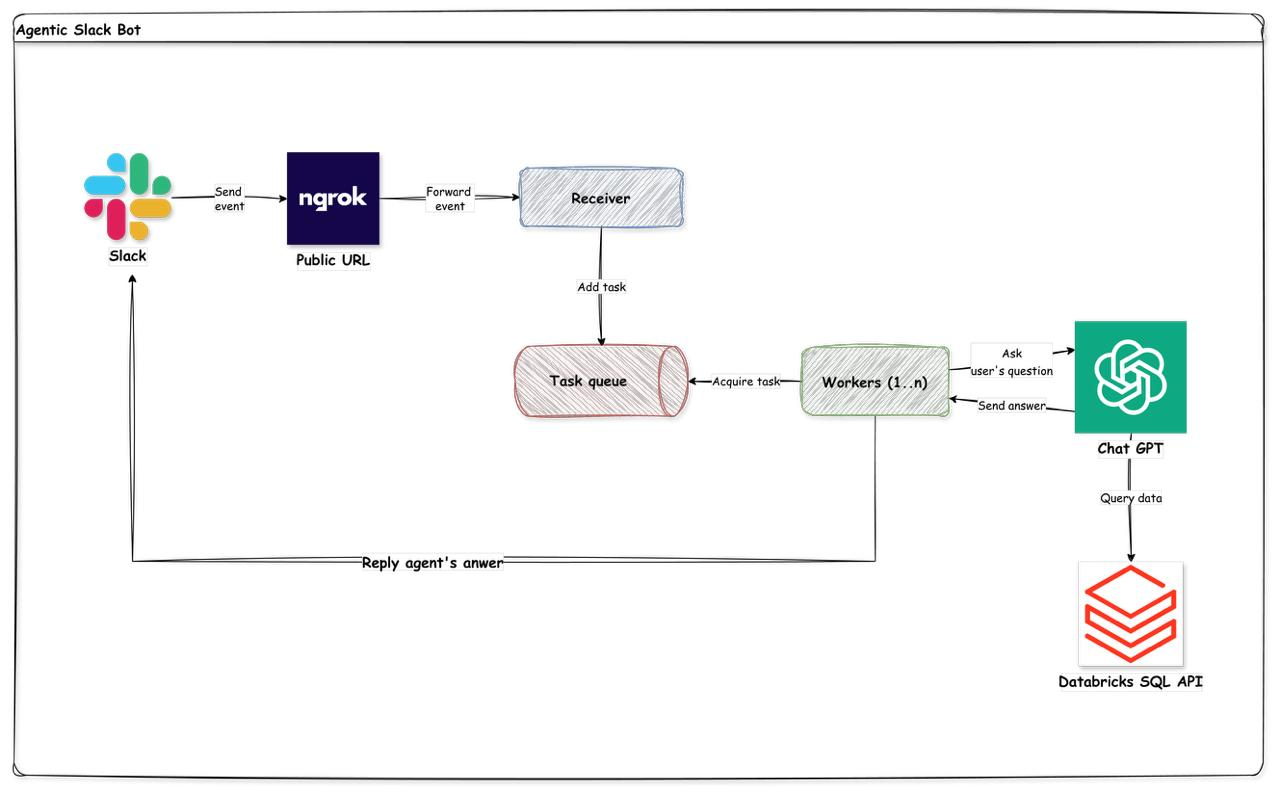
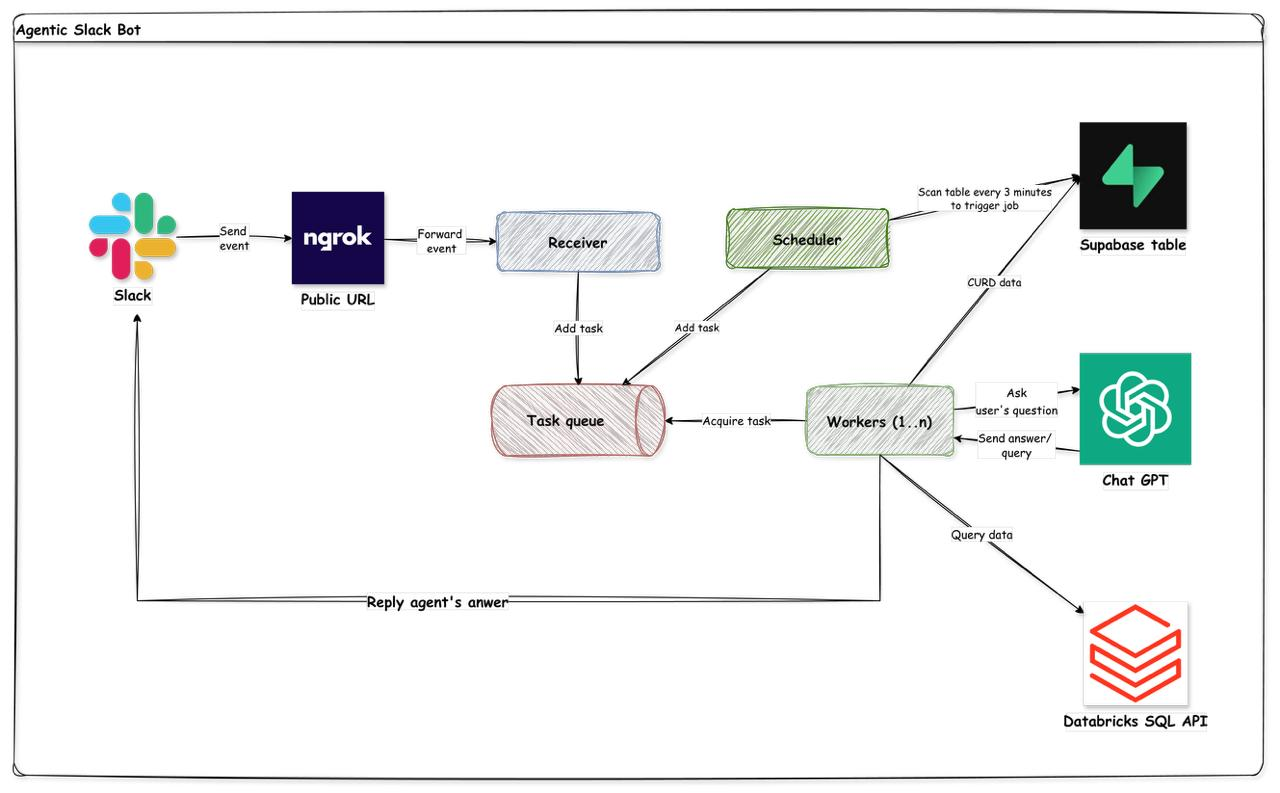
docs: update readme

diff --git a/README.md b/README.md
@@ -1,4 +1,4 @@
-# Databricks Assistant — Slack Bot
+# Agentic Slack Bot
 
 An agentic Slack bot that answers questions about your Databricks data infrastructure — catalogs, schemas, tables, columns, jobs, lineage, query history, usage costs, and data access control.
 
@@ -8,14 +8,37 @@ Powered by OpenAI with function calling. A lightweight router model selects only
 
 ![workflow](./docs/workflow.jpg)
 
+## Services
+
+| Service | Responsibility |
+|---|---|
+| **receiver** | FastAPI app that accepts incoming Slack webhook events. Verifies HMAC-SHA256 signatures, deduplicates events via Redis, and enqueues `app_mention` payloads onto the `slack_events` RQ queue. |
+| **worker** | RQ consumer that processes queued Slack events. Runs the OpenAI agent loop — routes skills, executes Databricks SQL queries, fetches job run error details, manages scheduled questions, and posts replies back to Slack threads. Scales horizontally via `WORKER_COUNT`. |
+| **scheduler** | Background loop that polls Supabase every `SCHEDULER_INTERVAL` seconds. Evaluates each saved cron schedule against the current time and enqueues `process_scheduled_question` jobs for any that are due. |
+| **redis** | Message broker and deduplication store. Distributes jobs between workers (competing-consumer), tracks seen Slack event IDs, and records per-schedule last-fired timestamps. |
+| **ngrok** | Tunnels `receiver:8123` to a public HTTPS URL so Slack can reach the bot during local development. |
+
+## Modules
+
+| Module | Responsibility |
+|---|---|
+| `src/receiver/` | Slack webhook handler — signature verification, URL challenge, event deduplication, and RQ enqueue. |
+| `src/worker/` | Agent core — OpenAI function-calling loop, skill loading and routing, tool dispatch (SQL, job details, schedule CRUD), and thread history management. |
+| `src/scheduler/` | Cron scheduler — reads schedules from Supabase, evaluates firing windows, and enqueues periodic questions. |
+| `src/connectors/` | Thin clients for external systems: `databricks.py` (Statement API, Jobs REST API) and `postgres.py` (Supabase schedule CRUD). |
+| `src/worker/skills/` | Markdown skill files loaded into the agent system prompt. The router selects which skills to include based on the user's question. |
+| `src/databricks/metric_views/` | SQL view definitions for the semantic layer (`vw_dbu_cost`, `vw_job_run_stats`, `vw_query_perf`) deployed to `vireox_infra.semantic` in Databricks. |
+
 ## What it can answer
 
 - How many catalogs / schemas / tables exist, and their column definitions
-- Databricks job configs, schedules, task dependencies, and run history
+- Databricks job configs, schedules, task dependencies, and run history (including per-task error details)
 - Data lineage — upstream and downstream table dependencies
 - Query execution history — who ran what, when, duration, status
 - Platform DBU consumption and estimated cost by workspace, SKU, or user
 - Data access control — which tables a user can see, which users can access a table
+- Aggregated metrics via semantic views — cost trends, job success/failure rates, query performance stats
+- Scheduled reports — list, create, update, and remove cron-based automated questions (admin-only)
 
 Questions about business data values (revenue, customer counts, etc.) are out of scope and politely declined.
 
@@ -30,7 +53,7 @@ cp .env.example .env
 # Fill in all values
 ```
 
-Set `WORKER_COUNT` to the number of concurrent workers you want (default: `4`).
+Set `WORKER_COUNT` to the number of concurrent workers you want (default: `2`).
 
 ### 2. Start services
 
@@ -59,6 +82,7 @@ Try asking:
 @yourbot show me failed job runs in the last 7 days
 @yourbot which jobs cost the most last month?
 @yourbot what tables can alice@example.com access?
+@yourbot what is the p95 job duration for the ingestion pipeline?
 ```
 
 Follow-up questions work — the bot remembers the thread conversation for 24 hours.
@@ -84,9 +108,11 @@ Instructions live in [`src/worker/skills/`](src/worker/skills/) as individual Ma
 | `03_metadata.md` | `information_schema` tables | Routed |
 | `04_jobs.md` | Lakeflow jobs and run timelines | Routed |
 | `05_lineage.md` | `access.table_lineage` | Routed |
-| `06_billing.md` | Billing usage and query history | Routed |
+| `06_billing.md` | Raw billing and query history tables | Routed |
 | `07_access.md` | Data access control tables | Routed |
 | `08_formatting.md` | Slack output formatting rules | Yes |
+| `09_schedules.md` | Scheduled report management (admin) | Routed |
+| `10_semantic.md` | Semantic views for aggregated metrics | Routed |
 
 **Always-loaded** skills are included in every system prompt. **Routed** skills are selected per-request by a fast router model (`gpt-4o-mini` by default) based on the user's question and recent conversation history.
 
@@ -112,5 +138,6 @@ The router uses the `description` field to decide when to load it. Set `always: 
 
 | Variable | Default | Description |
 |---|---|---|
-| `WORKER_COUNT` | `4` | Number of concurrent worker containers |
+| `WORKER_COUNT` | `2` | Number of concurrent worker containers |
 | `ROUTER_MODEL` | `gpt-4o-mini` | Model used for skill routing (cheap, fast) |
+| `SCHEDULER_INTERVAL` | `180` | Seconds between scheduler polling ticks |
